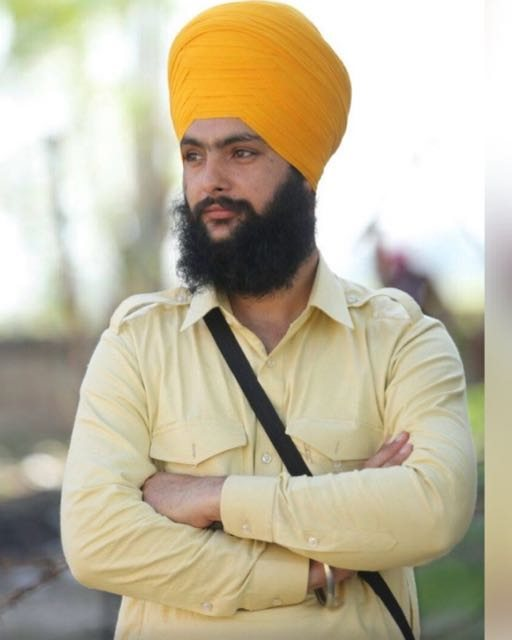
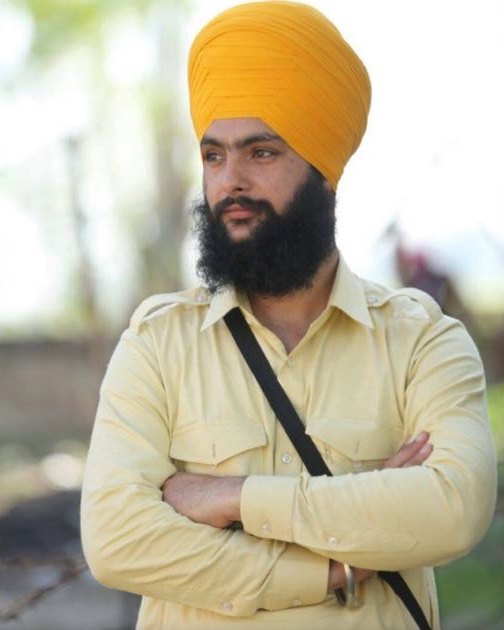
Put the portrait in the hero, and fix the source crop
The hero becomes two columns on desktop — words left, portrait right,
which also fills the empty right margin the layout had. The portrait is
first in the DOM, so narrow screens stack it on top with no order
juggling, at a size that keeps the headline and both CTAs above the fold.
It joins the single orchestrated hero entrance rather than animating on
its own. The photo stays in About as well, so it now appears twice.

The supplied image turned out to be padded to a square: a column scan
found hard discontinuities at x=44 and x=548, so roughly 20% of its width
was filler bars. The earlier centre crop kept part of the right bar, which
showed as a pale strip down the edge of the picture. Re-cropped to the
real content (504x630, already 4:5) and the subject now sits centred.

Moving the role line below the portrait on mobile dropped it onto bluer
sky and its contrast fell to 3.75:1, so it takes the darker secondary ink
and is back to 6.14:1.

Re-verified: WCAG AA at 1440px and 390px, no h-overflow, no failed
requests, no console errors, form and reduced motion intact.

Claude-Session: https://claude.ai/code/session_01YAJyfWh44ALWHUpYrb8RFF

diff --git a/assets/css/site.css b/assets/css/site.css
@@ -132,16 +132,35 @@ a{color:inherit}
 }
 /* hero shares the page's left edge rather than sitting in a narrower
    centred box, so hero / climb / bands all start on the same line */
+.hero__inner{
+  display:grid;
+  grid-template-columns:minmax(0,1fr) clamp(230px,23vw,320px);
+  gap:clamp(2rem,4.5vw,3.5rem);
+  align-items:center;
+}
+.hero__photo{grid-column:2;grid-row:1;margin:0;position:relative}
+.hero__text {grid-column:1;grid-row:1}
+.hero__photo img{
+  width:100%;height:auto;display:block;border-radius:3px;
+  aspect-ratio:4/5;object-fit:cover;object-position:50% 26%;
+  box-shadow:0 22px 48px -26px rgba(14,36,64,.55);
+}
+.hero__photo::after{
+  content:"";position:absolute;inset:0;border-radius:3px;pointer-events:none;
+  box-shadow:inset 0 0 0 1px rgba(14,36,64,.1);
+}
 .hero__role{
   font-family:var(--serif);font-style:italic;
   font-size:clamp(1rem,.9rem + .4vw,1.2rem);
-  color:var(--ink-soft);margin:0 0 1.2rem;
+  /* sits lower on the gradient once the portrait stacks above it on
+     narrow screens, so it needs the darker of the two secondary inks */
+  color:var(--ink-mid);margin:0 0 1.2rem;
 }
 .hero__title{
   font-family:var(--serif);font-weight:400;
-  font-size:clamp(2.1rem,1.25rem + 3.5vw,3.6rem);
+  font-size:clamp(2.1rem,1.2rem + 3.1vw,3.3rem);
   line-height:1.26;letter-spacing:-.005em;
-  margin:0 0 1.5rem;max-width:860px;text-wrap:balance;
+  margin:0 0 1.5rem;text-wrap:balance;
 }
 .hero__title em{font-style:italic}
 .hero__lede{
@@ -156,9 +175,10 @@ a{color:inherit}
 }
 
 @media (prefers-reduced-motion:no-preference){
-  .hero__role,.hero__title,.hero__lede,.hero__actions{
+  .hero__role,.hero__title,.hero__lede,.hero__actions,.hero__photo{
     animation:rise .9s cubic-bezier(.22,.7,.3,1) backwards;
   }
+  .hero__photo{animation-delay:.2s}
   .hero__title{animation-delay:.08s}
   .hero__lede{animation-delay:.16s}
   .hero__actions{animation-delay:.24s}
@@ -166,6 +186,12 @@ a{color:inherit}
 }
 @keyframes rise{from{opacity:0;transform:translateY(14px)}to{opacity:1;transform:none}}
 @keyframes widen{from{opacity:0;transform:scaleX(.3)}to{opacity:1;transform:none}}
+
+@media (max-width:900px){
+  .hero__inner{grid-template-columns:1fr;gap:1.75rem}
+  .hero__photo{grid-column:1;grid-row:1;width:min(185px,45%)}
+  .hero__text {grid-column:1;grid-row:2}
+}
 
 /* ── buttons ────────────────────────────────────────────── */
 .btn{

diff --git a/index.html b/index.html
@@ -41,18 +41,27 @@
   <!-- ─────────────  HERO · ground level, dawn  ───────────── -->
   <section class="hero" id="hero">
     <div class="wrap hero__inner">
-      <p class="hero__role">Life Architect Coach</p>
-      <h1 class="hero__title">
-        A life doesn’t build itself.<br>
-        It has to be <em>designed</em>.
-      </h1>
-      <p class="hero__lede">
-        Ten levels, taken in order. It begins with sleep and ends where
-        you can guide someone else through the same climb.
-      </p>
-      <div class="hero__actions">
-        <a class="btn btn--sun" href="#levels">See the ten levels</a>
-        <a class="btn btn--line" data-wa href="#contact">Talk on WhatsApp</a>
+      <figure class="hero__photo">
+        <picture>
+          <source srcset="assets/davinder.webp" type="image/webp">
+          <img src="assets/davinder.jpg" width="504" height="630"
+               alt="Davinder Pal Singh" fetchpriority="high" decoding="async">
+        </picture>
+      </figure>
+      <div class="hero__text">
+        <p class="hero__role">Life Architect Coach</p>
+        <h1 class="hero__title">
+          A life doesn’t build itself.<br>
+          It has to be <em>designed</em>.
+        </h1>
+        <p class="hero__lede">
+          Ten levels, taken in order. It begins with sleep and ends where
+          you can guide someone else through the same climb.
+        </p>
+        <div class="hero__actions">
+          <a class="btn btn--sun" href="#levels">See the ten levels</a>
+          <a class="btn btn--line" data-wa href="#contact">Talk on WhatsApp</a>
+        </div>
       </div>
     </div>
     <div class="horizon" aria-hidden="true"></div>
@@ -217,7 +226,7 @@
       <figure class="about__portrait">
         <picture>
           <source srcset="assets/davinder.webp" type="image/webp">
-          <img src="assets/davinder.jpg" width="512" height="640"
+          <img src="assets/davinder.jpg" width="504" height="630"
                alt="Davinder Pal Singh" loading="lazy" decoding="async">
         </picture>
       </figure>

diff --git a/README.md b/README.md
@@ -29,7 +29,7 @@ assets/css/fonts.css    self-hosted @font-face
 assets/css/site.css     design tokens + all layout
 assets/js/site.js       WhatsApp links, enquiry form, altimeter
 assets/fonts/           Newsreader + IBM Plex Sans (OFL)
-assets/davinder.jpg     portrait (+ .webp)
+assets/davinder.jpg     portrait, used in the hero and About (+ .webp)
 assets/favicon.svg
 ```
 
@@ -82,6 +82,16 @@ Self-hosted so the page never waits on a third-party request. Both faces are
 SIL Open Font License 1.1; licences are in `assets/fonts/`. Only the weights
 actually used ship (Newsreader 400 + italic, Plex 400/500/600), Latin subset
 only — about 45KB on the critical path.
+
+## The portrait
+
+`assets/davinder.*` is cropped from the supplied square, which was padded
+with filler bars down both sides — the real photo is only the middle 504px.
+The crop excludes those bars; don't re-crop from the original square without
+trimming them, or the bars reappear at the image edges.
+
+The same photo currently appears twice (hero and About). A second photo for
+one of the two would read better — drop it in and point the `<figure>` at it.
 
 ## Not built yet
 
